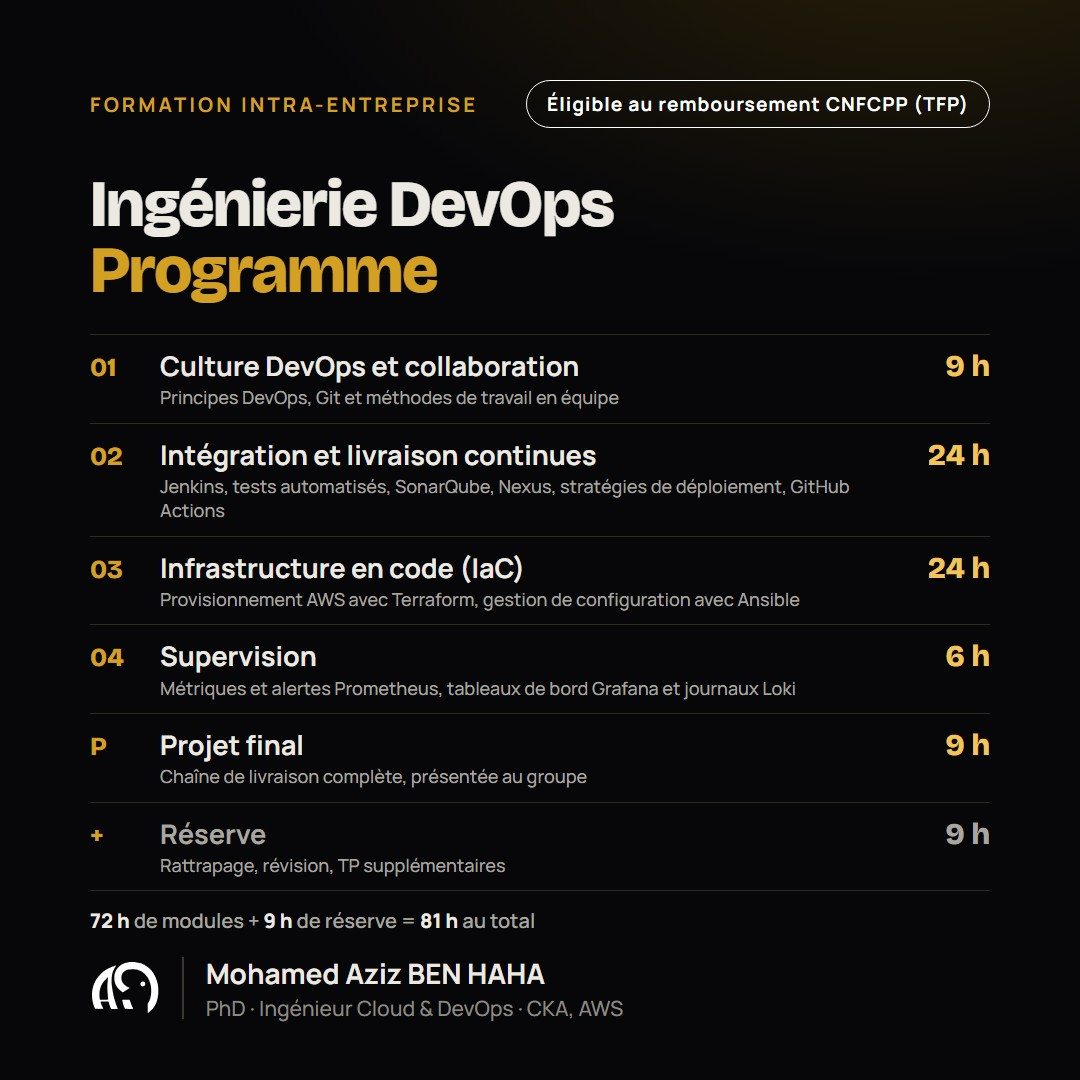
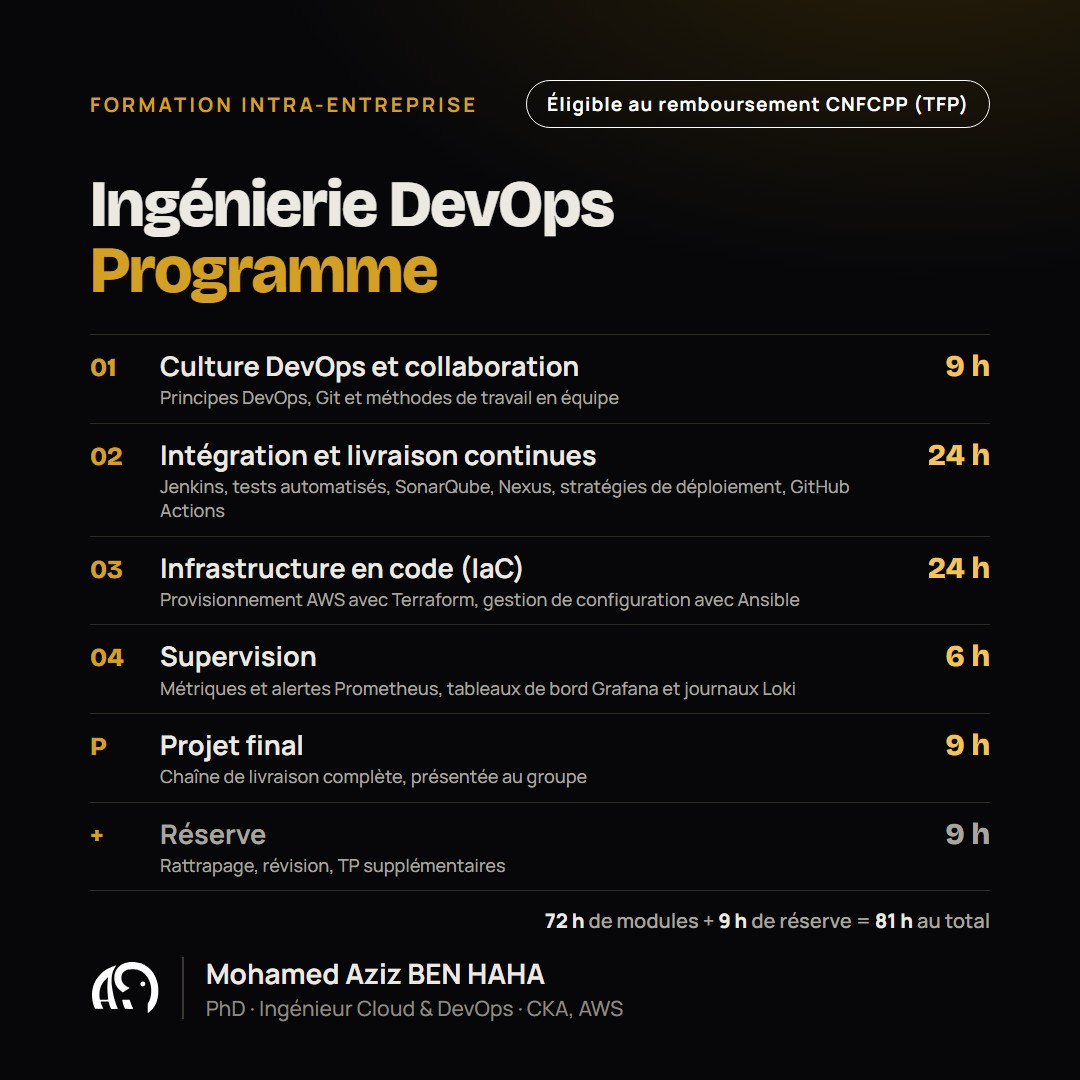
Catalogue: totals line right-aligned, feeds renamed feed-fr/feed-en, prices TND (Tunisia) and EUR (country feed)

Changed region(s): [[0.2444, 0.825, 0.9167, 0.8556], [0.0917, 0.825, 0.2139, 0.8556]]

diff --git a/scripts/catalog.py b/scripts/catalog.py
@@ -4,8 +4,9 @@ WhatsApp / Meta catalogue: 3 images per programme and language, plus the Meta da
     python scripts/catalog.py
 
 Reads catalog/items.json (which programmes, outcomes, price rate) and programmes/<slug>[-fr].json.
-Writes catalog/img/<slug>-<lang>-<n>.jpg, catalog/feed.csv (primary, French)
-and catalog/feed-en.csv (English language feed, same ids).
+Writes catalog/img/<slug>-<lang>-<n>.jpg, catalog/feed-fr.csv (primary, French)
+catalog/feed-en.csv (English language feed, same ids)
+and catalog/feed-countries.csv (country feed: price in EUR outside Tunisia).
 Needs Microsoft Edge (headless) and internet access for the Google fonts.
 """
 
@@ -47,7 +48,7 @@ T = {
         ],
         "cnfcpp_txt": " Eligible for CNFCPP (TFP) refund.",
         "sumtxt": "{t} h: {m} h of modules + {b} h buffer for catch-up, revision and extra lab time",
-        "price_on": "Indicative price for one in-company group; final quote on request.",
+        "price_on": "Indicative price excl. tax for one in-company group; final quote on request.",
         "price_off": "Price on quote.",
         "facts": {"aud": "Audience", "pre": "Prerequisites", "fmt": "Format", "ass": "Assessment", "out": "Outcome"},
     },
@@ -71,7 +72,7 @@ T = {
         ],
         "cnfcpp_txt": " Éligible au remboursement CNFCPP (TFP).",
         "sumtxt": "{t} h : {m} h de modules + {b} h de réserve pour rattrapage, révision et TP supplémentaires",
-        "price_on": "Prix indicatif pour un groupe intra-entreprise ; devis final sur demande.",
+        "price_on": "Prix indicatif HT pour un groupe intra-entreprise ; devis final sur demande.",
         "price_off": "Prix sur devis.",
         "facts": {"aud": "Public", "pre": "Prérequis", "fmt": "Format", "ass": "Évaluation", "out": "Résultat"},
     },
@@ -96,7 +97,7 @@ h2{font:800 66px/1 'Bricolage Grotesque';letter-spacing:-.025em;margin-top:44px}
 .m b{font:700 27px/1.2 Manrope}.m p{font:500 18px/1.35 Manrope;color:#a9a6a0;margin-top:3px}
 .m em{font:800 30px 'Bricolage Grotesque';color:#f2c45a;font-style:normal;text-align:right}
 .m.buf b,.m.buf em{color:#a9a6a0}
-.tot{font:600 20px Manrope;color:#a9a6a0;margin-top:16px}.tot b{color:#ece9e2}
+.tot{font:600 20px Manrope;color:#a9a6a0;margin-top:16px;text-align:right}.tot b{color:#ece9e2}
 .out{margin-top:34px;display:flex;flex-direction:column;gap:20px}
 .o{display:grid;grid-template-columns:60px 1fr;align-items:start}
 .o i{font:800 26px/1.4 'Bricolage Grotesque';color:#d4a024;font-style:normal}
@@ -233,9 +234,10 @@ def description(p, lang, sums, cnfcpp, priced):
 
 def main():
     cfg = json.loads((CAT / "items.json").read_text(encoding="utf-8"))
-    base, rate, cur, cnfcpp = cfg["base_url"].rstrip("/"), cfg["rate_per_hour"], cfg["currency"], cfg["cnfcpp"]
+    base, cnfcpp, pr = cfg["base_url"].rstrip("/"), cfg["cnfcpp"], cfg["price"]
+    rate, cur, ab = pr.get("per_hour"), pr["currency"], pr.get("abroad")
     (CAT / "img").mkdir(exist_ok=True)
-    primary, english = [], []
+    primary, english, countries = [], [], []
     with tempfile.TemporaryDirectory(ignore_cleanup_errors=True) as d:
         tmp = pathlib.Path(d).resolve()
         for slug, item in cfg["items"].items():
@@ -255,20 +257,25 @@ def main():
                                 "image_link": imgs[0], "additional_image_link": ",".join(imgs[1:]),
                                 "brand": NAME})
                     primary.append(row)
+                    if ab and ab.get("per_hour") is not None:
+                        countries += [{"id": row["id"], "override": c, "price": f"{ab['per_hour'] * sums[2]:.2f} {ab['currency']}"}
+                                      for c in ab["countries"]]
                 else:
                     row["override"] = "en_XX"
                     english.append(row)
                 print(f"  {slug} {lang}: 3 images")
     cols = ["id", "title", "description", "availability", "condition", "price", "link",
             "image_link", "additional_image_link", "brand"]
-    for name, rows, c in (("feed.csv", primary, cols), ("feed-en.csv", english, ["id", "override", "title", "description", "link"])):
+    for name, rows, c in (("feed-fr.csv", primary, cols),
+                          ("feed-en.csv", english, ["id", "override", "title", "description", "link"]),
+                          ("feed-countries.csv", countries, ["id", "override", "price"])):
         with open(CAT / name, "w", encoding="utf-8", newline="") as f:
             w = csv.DictWriter(f, fieldnames=c)
             w.writeheader()
             w.writerows(rows)
     print(f"feeds: {len(primary)} items")
     if rate is None:
-        print("WARNING: rate_per_hour is null, so the price column is empty and Meta will reject the feed.")
+        print("WARNING: price.per_hour is null, so the price column is empty and Meta will reject the feed.")
 
 
 if __name__ == "__main__":

diff --git a/START-HERE.md b/START-HERE.md
@@ -7,8 +7,8 @@
 
 ## WhatsApp / Meta catalogue (2026-10-05, on `redesign`, test item = DevOps Engineering)
 - B2B only (companies + training centres), price on quote, dark & gold cards, logo + name one block, PhD in the byline, CNFCPP (TFP) badge (see memory).
-- Template: `python scripts/catalog.py` (run from PowerShell; needs Edge + internet for fonts). Input `catalog/items.json`: which programmes (slug, code, 5 outcomes EN + FR), `rate_per_hour`, `currency`. Output: `catalog/img/<slug>-<lang>-<1..3>.jpg` (cover, programme with buffer row, team outcomes), `catalog/feed.csv` (primary, French) + `catalog/feed-en.csv` (English language feed, `override=en_XX`, same ids).
-- Meta requires a price in a data feed: while `rate_per_hour` is null the price column is empty and Commerce Manager rejects the items. Price = rate × total hours, per in-company group.
+- Template: `python scripts/catalog.py` (run from PowerShell; needs Edge + internet for fonts). Input `catalog/items.json`: programmes (slug, code, 5 outcomes EN + FR) and `price`. Output: `catalog/img/<slug>-<lang>-<1..3>.jpg` (cover, programme with buffer row and right-aligned total, team outcomes), `catalog/feed-fr.csv` (primary, French, price in TND), `catalog/feed-en.csv` (English language feed, `override=en_XX`), `catalog/feed-countries.csv` (country feed: EUR price for FR, BE, LU, DE, NL, IT, ES, PT, IE, AT).
+- Price (proposed 2026-10-05, user to confirm): one in-company group, excl. tax, 110 per hour × total hours: 110 TND in Tunisia (just under the CNFCPP ceiling for an external trainer, 20% of the monthly SMIG 48 h per hour, group of 4+: 0.2 × 554.736 = 110.947 TND in 2026; follow the SMIG each year) and 110 EUR abroad (770 EUR/day, inside the 600-1,100 EUR/day French range for Cloud/DevOps trainers). DevOps 81 h = 8,910 TND / 8,910 EUR. Unverified: whether WhatsApp shows the country-feed price and the English language feed.
 - The feed URLs point at production, so they work only after a merge to `main` (user's word).
 - Next: the user reviews DevOps; then add the other 38 slugs to `items.json` (write 5 outcomes per language from each programme JSON).
 
